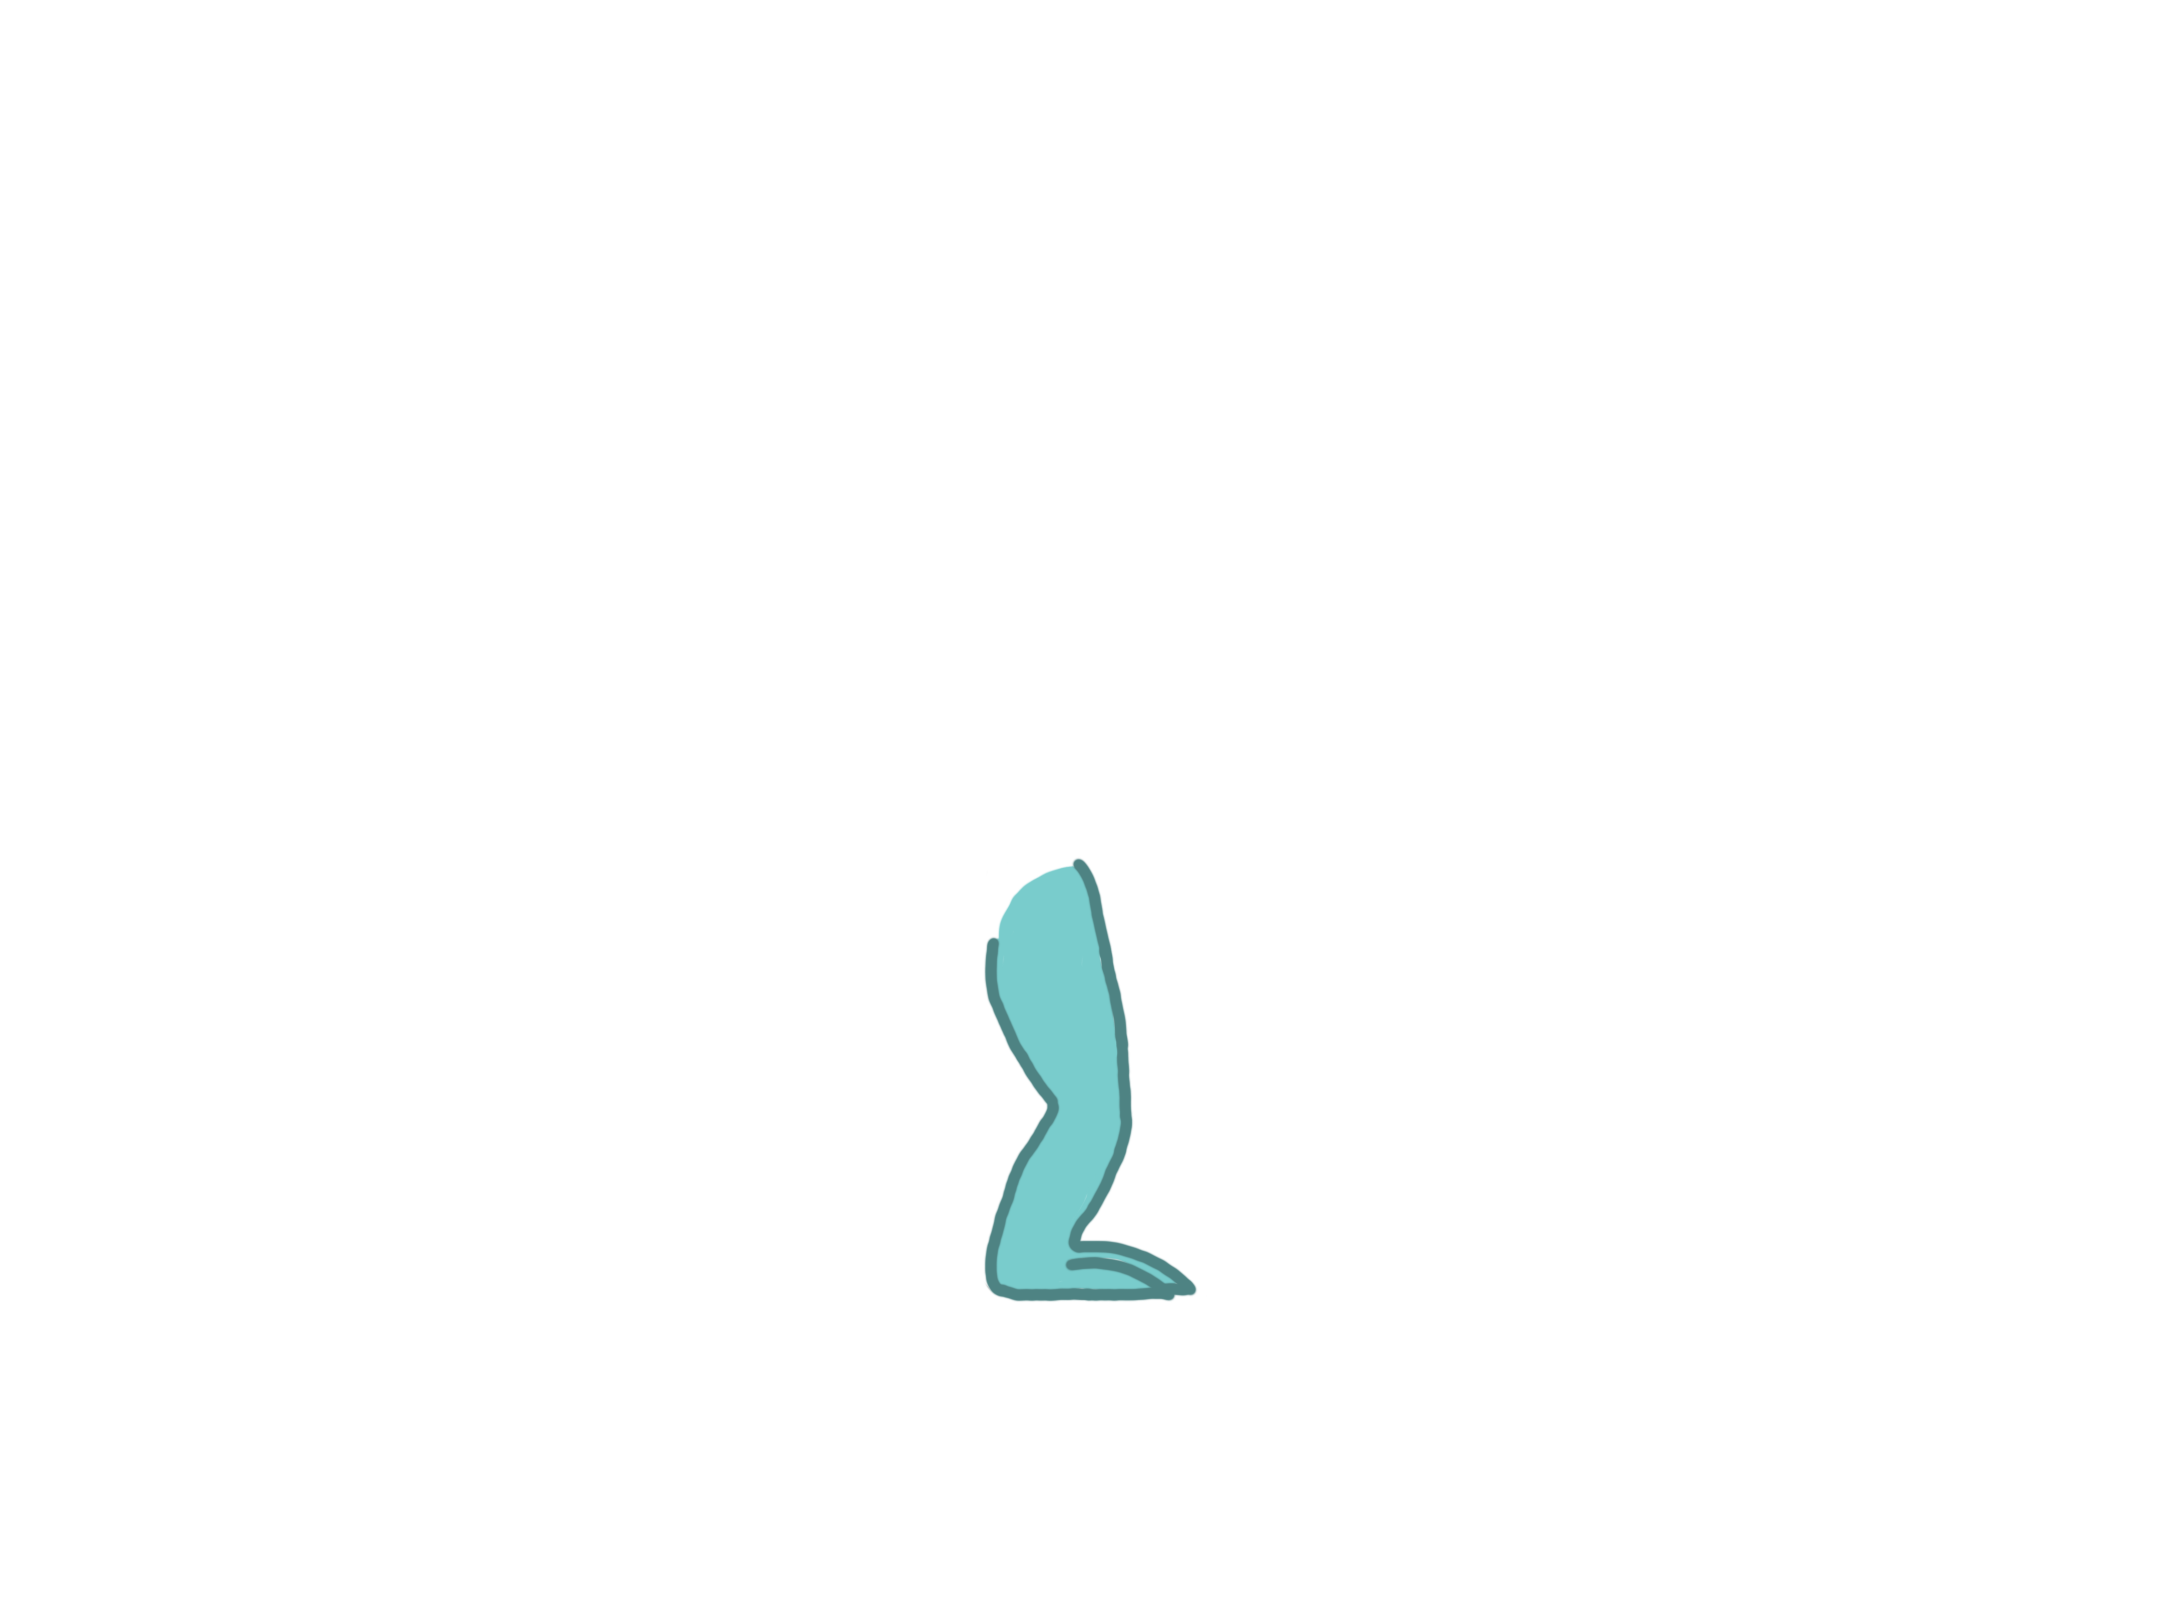
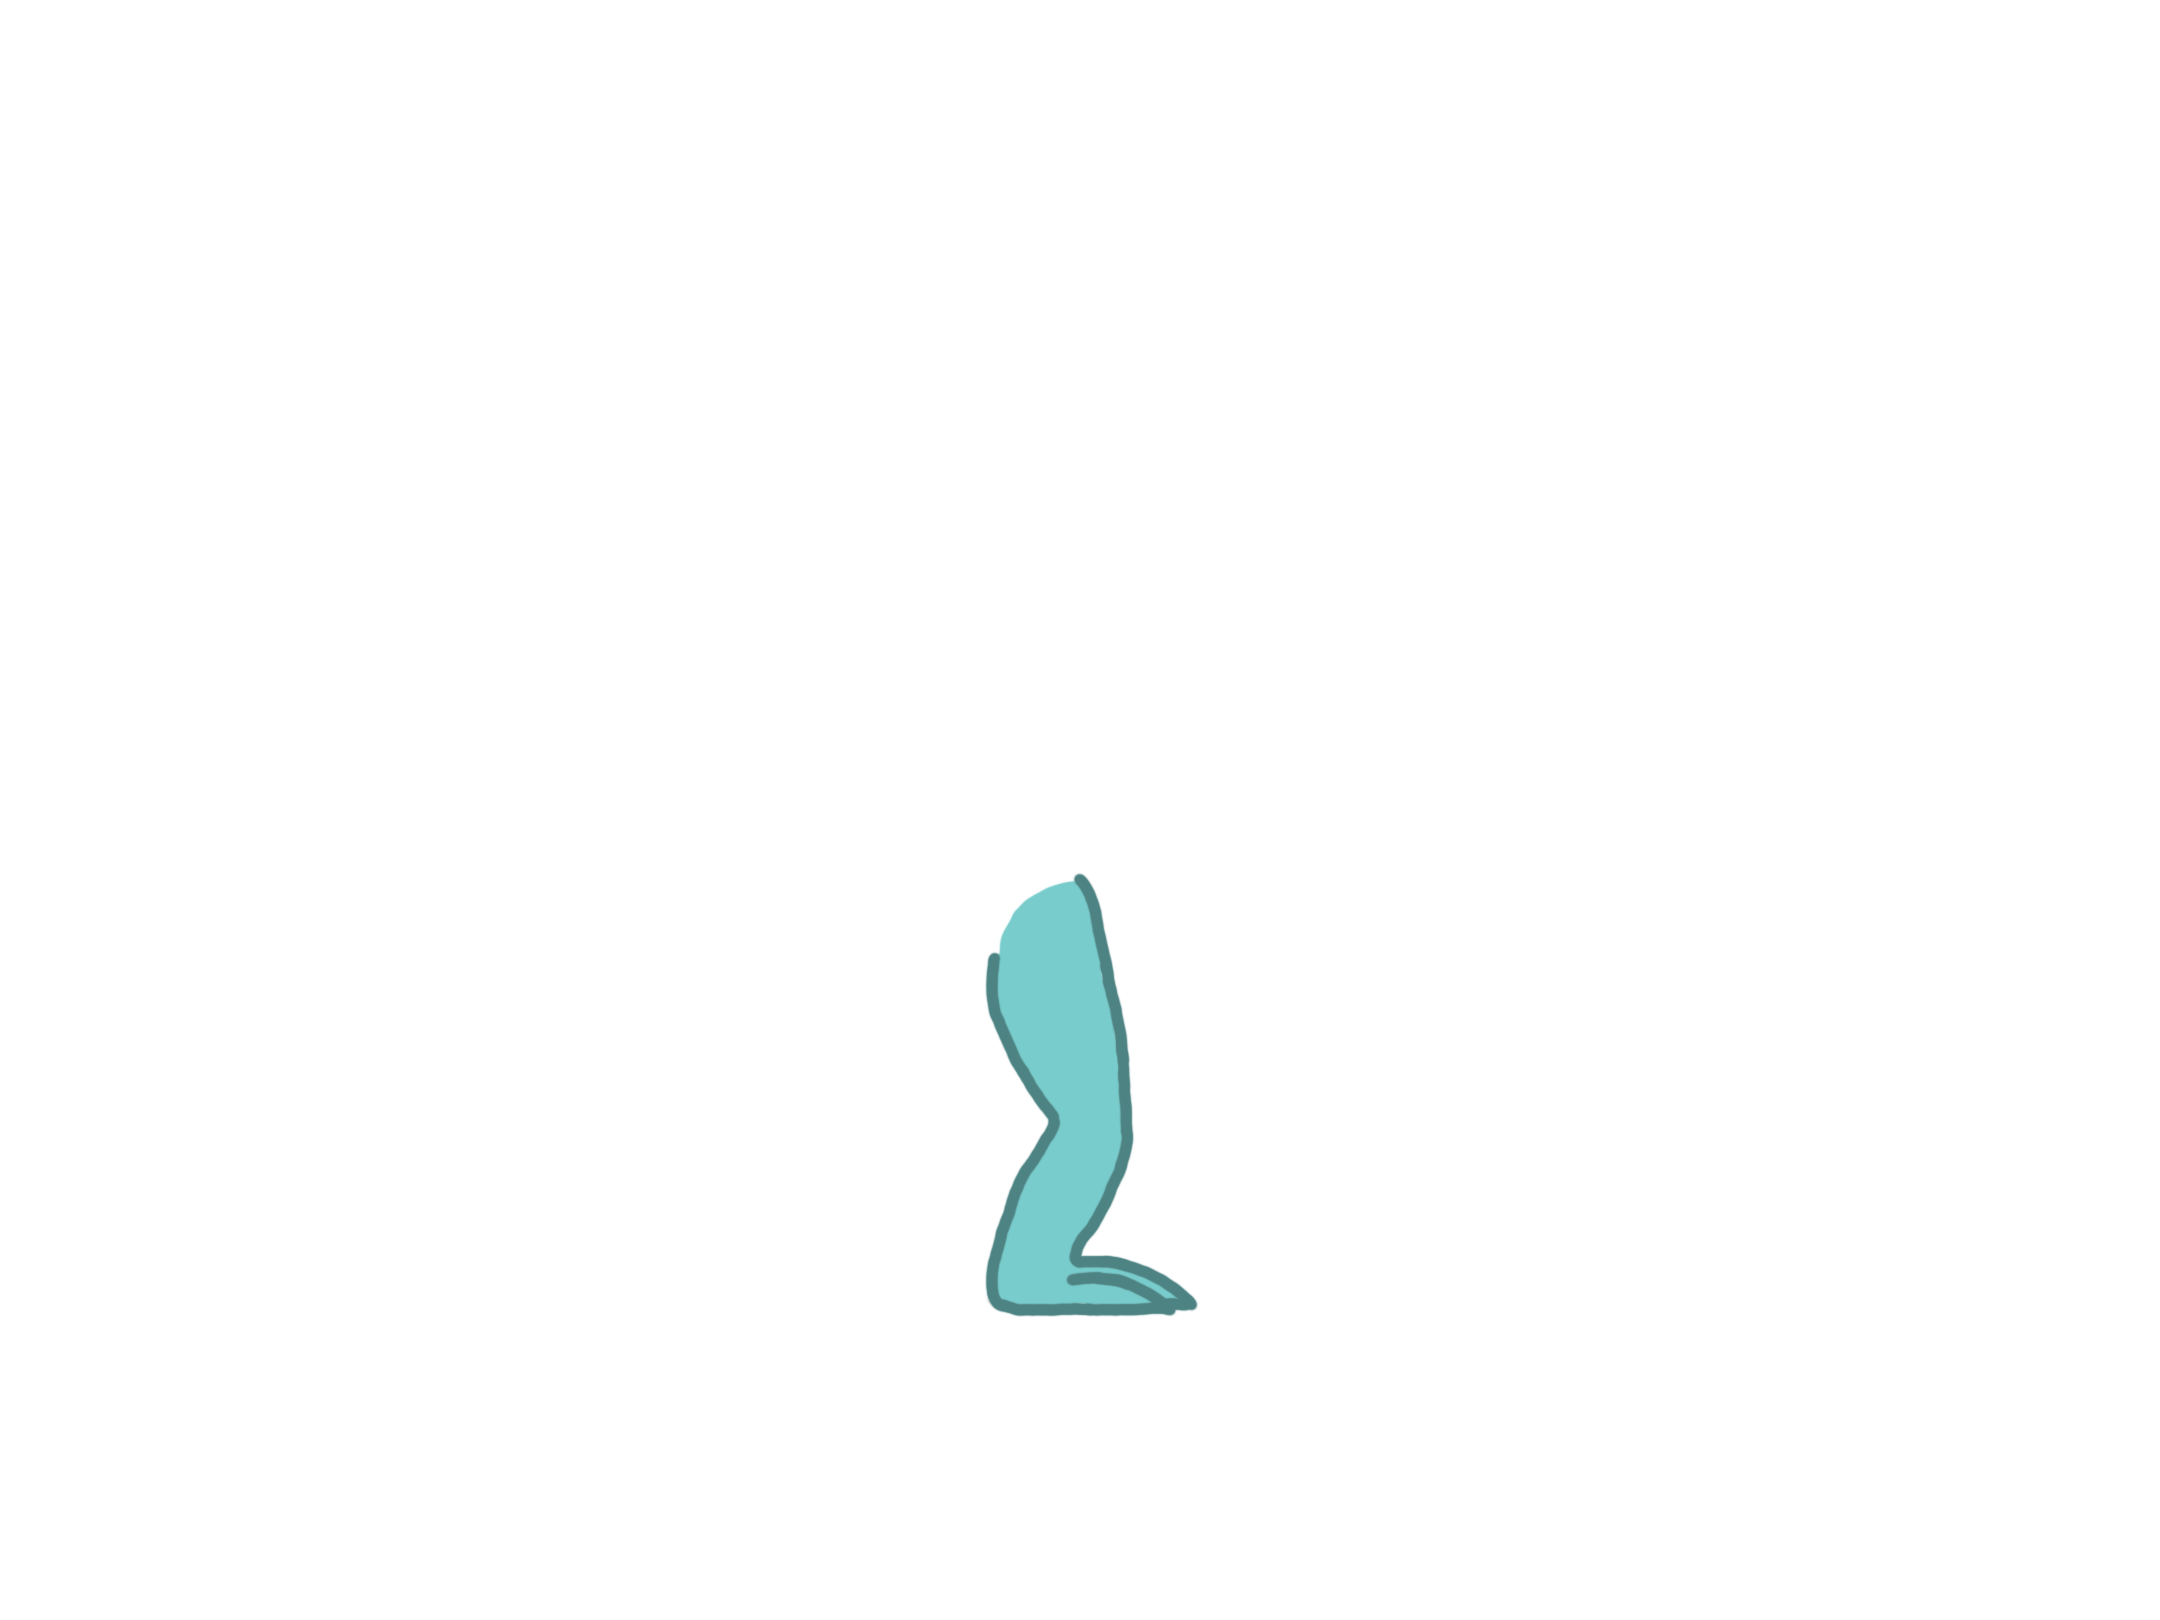
updated character model and added input map

Changed region(s): [[0.4343, 0.6481, 0.5583, 0.8333], [0.4653, 0.5247, 0.5273, 0.5556], [0.4343, 0.6173, 0.4653, 0.6481]]

diff --git a/scripts/Player/Player.cs b/scripts/Player/Player.cs
@@ -4,7 +4,7 @@ public partial class Player : CharacterBody2D
 {
 	public CollisionShape2D collisionBox;
 	public Vector2 center;
-	public const float Speed = 400.0f;
+	public const float Speed = 300.0f;
 	public const float JumpVelocity = -1000.0f;
 
     public override void _Ready()
@@ -38,7 +38,7 @@ public partial class Player : CharacterBody2D
 
 		// Get the input direction and handle the movement/deceleration.
 		// As good practice, you should replace UI actions with custom gameplay actions.
-		Vector2 direction = Input.GetVector("ui_left", "ui_right", "ui_up", "ui_down");
+		Vector2 direction = Input.GetVector("move_left", "move_right", "_", "_");
 		if (direction != Vector2.Zero)
 		{
 			velocity.X = direction.X * Speed;
